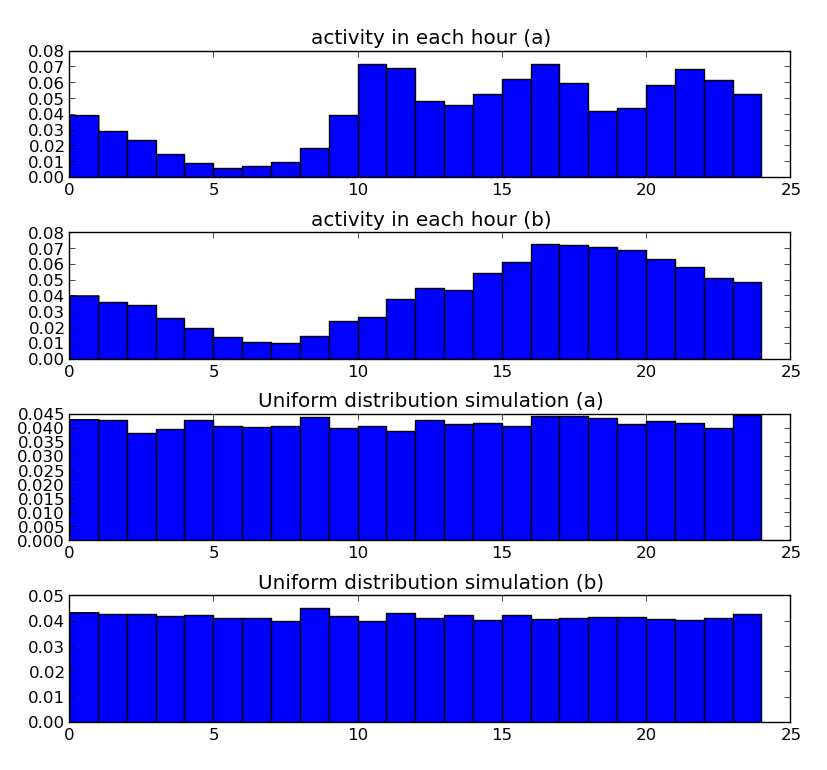
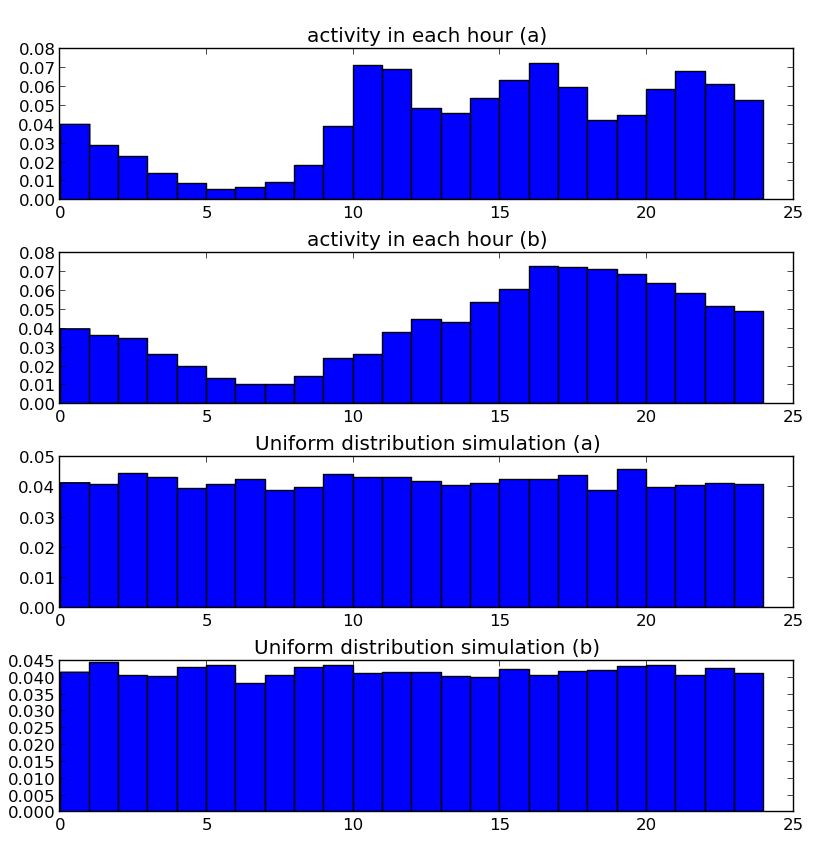
atualizando mensagens

Changed region(s): [[0.0, 0.0312, 0.9674, 0.9974]]

diff --git a/scripts/dataStatistics.py b/scripts/dataStatistics.py
@@ -169,10 +169,10 @@ msgs_mes=[i[0][1]+i[1][1] for i in zip(vals2_,vals_[12:])]
 # horario de todas as msgs
 shT=shs_+shsLL_
 shT.sort()
-shT_=shT[224:15145]
+shT_=shT[224:15369]
 shT__=[datetime.datetime.strptime((i,i[:i.find(".")])["." in i],'%Y-%m-%dT%H:%M:%S') for i in shT_]
 # filtrar mensagens de 2012 p frente. Sem a $$
-shT2_=shT[15145:]
+shT2_=shT[15369:]
 shT2__=[datetime.datetime.strptime((i,i[:i.find(".")])["." in i],'%Y-%m-%dT%H:%M:%S') for i in shT2_]
 
 def cDiff(vetor,bins_):
@@ -183,48 +183,48 @@ s1=[i.second for i in shT__]
 ms1=n.mean(s1)
 ds1=n.std(s1)
 Ms1=cDiff(s1,n.arange(61))
-#p.subplot(611)
-#p.hist(s1,bins=n.arange(61),normed=1)
-#p.title("activity in each second (a)")
-#s2=[i.second for i in shT2__]
-#ms2=n.mean(s2)
-#ds2= n.std(s2)
-#p.subplot(612)
-#p.hist(s2,bins=n.arange(61),normed=1)
-#p.title("activity in each second (b)")
-#Ms2=cDiff(s2,n.arange(61))
-## minutos da hora
-#m1=[i.minute for i in shT__]
-#mm1=n.mean(m1)
-#dm1=n.std(m1)
-#Mm1=cDiff(m1,n.arange(61))
-#p.subplot(613)
-#p.hist(m1,bins=n.arange(61),normed=1)
-#p.title("activity in each minute (a)")
-#m2=[i.minute for i in shT2__]
-#mm2=n.mean(m2)
-#dm2= n.std(m2)
-#Mm2=cDiff(m2,n.arange(61))
-#p.subplot(614)
-#p.hist(m2,bins=n.arange(61),normed=1)
-#p.title("activity in each minute (b)")
-#
-## distribuicao uniforme
-#u1=n.random.random_integers(0,59,len(s1))
-#mu1=n.mean(u1)
-#du1= n.std(u1)
-#Mu1= cDiff(u1,n.arange(61))
-#p.subplot(615)
-#p.hist(u1,bins=n.arange(61),normed=1)
-#p.title("Uniform distribution simulation (a)")
-#u2=n.random.random_integers(0,59,len(s2))
-#mu2=n.mean(u2)
-#du2= n.std(u2)
-#Mu2= cDiff(u2,n.arange(61))
-#p.subplot(616)
-#p.hist(u2,bins=n.arange(61),normed=1)
-#p.title("Uniform distribution simulation (b)")
-#p.show()
+p.subplot(611)
+p.hist(s1,bins=n.arange(61),normed=1)
+p.title("activity in each second (a)")
+s2=[i.second for i in shT2__]
+ms2=n.mean(s2)
+ds2= n.std(s2)
+p.subplot(612)
+p.hist(s2,bins=n.arange(61),normed=1)
+p.title("activity in each second (b)")
+Ms2=cDiff(s2,n.arange(61))
+# minutos da hora
+m1=[i.minute for i in shT__]
+mm1=n.mean(m1)
+dm1=n.std(m1)
+Mm1=cDiff(m1,n.arange(61))
+p.subplot(613)
+p.hist(m1,bins=n.arange(61),normed=1)
+p.title("activity in each minute (a)")
+m2=[i.minute for i in shT2__]
+mm2=n.mean(m2)
+dm2= n.std(m2)
+Mm2=cDiff(m2,n.arange(61))
+p.subplot(614)
+p.hist(m2,bins=n.arange(61),normed=1)
+p.title("activity in each minute (b)")
+
+# distribuicao uniforme
+u1=n.random.random_integers(0,59,len(s1))
+mu1=n.mean(u1)
+du1= n.std(u1)
+Mu1= cDiff(u1,n.arange(61))
+p.subplot(615)
+p.hist(u1,bins=n.arange(61),normed=1)
+p.title("Uniform distribution simulation (a)")
+u2=n.random.random_integers(0,59,len(s2))
+mu2=n.mean(u2)
+du2= n.std(u2)
+Mu2= cDiff(u2,n.arange(61))
+p.subplot(616)
+p.hist(u2,bins=n.arange(61),normed=1)
+p.title("Uniform distribution simulation (b)")
+p.show()
 
 # horas do dia
 h1=[i.hour for i in shT__]
